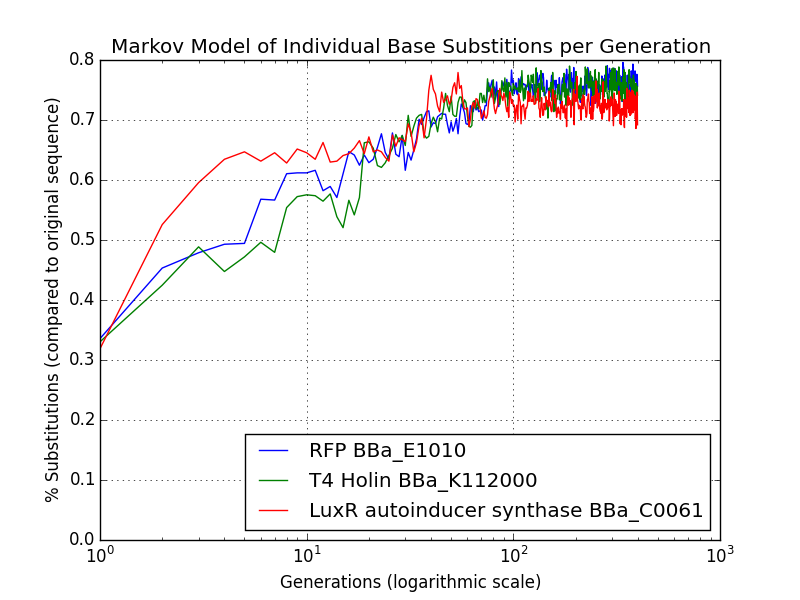
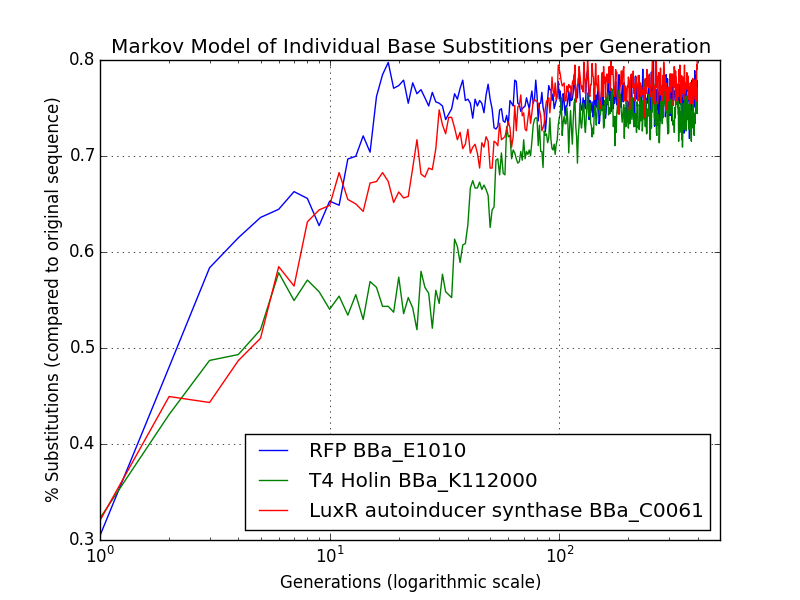
add conservative amino substitutions in markov

diff --git a/modeling/markov.py b/modeling/markov.py
@@ -109,12 +109,40 @@ def numDiffsCodons(seq1, seq2):
 
 sys.path.insert(0, '../lib')
 import mutation_optimizer
+
+ConservativeAminoMap = {
+    'A': ['S'],
+    'R': ['K'],
+    'N': ['Q','H'],
+    'D': ['E'],
+    'Q': ['N'],
+    'C': ['S'],
+    'E': ['D'],
+    'G': ['P'],
+    'H': ['N', 'Q'],
+    'I': ['L', 'V'],
+    'L': ['I', 'V'],
+    'K': ['R', 'Q'],
+    'M': ['L', 'I'],
+    'F': ['M', 'L', 'Y'],
+    'S': ['T', 'G'],
+    'T': ['S', 'V'],
+    'W': ['Y'],
+    'Y': ['W', 'F'],
+    'V': ['I', 'L']
+}
+
 def numDiffsAminos(seq1, seq2):
     s = 0
     seq1Amino = mutation_optimizer.dna_to_aa_translation(seq1)
     seq2Amino = mutation_optimizer.dna_to_aa_translation(seq2)
     for i in range(len(seq1Amino)):
-        if seq1Amino[i] != seq2Amino[i]: s = s + 1
+        aminoA = seq1Amino[i]
+        aminoB = seq2Amino[i]
+        if ((aminoA != aminoB) and
+            (aminoA in ConservativeAminoMap) and
+            (aminoB not in ConservativeAminoMap[aminoA])):
+            s = s + 1
     return s / len(seq1Amino)
 
 if __name__ == "__main__":
@@ -156,14 +184,15 @@ if __name__ == "__main__":
     for s in seqs:
         amins = list(map(lambda el: el['aminos'], s[:numGenerations]))
         plt.plot(amins)
+    plt.xlim([0, 10 ** 2.7])
+    plt.ylim([.4, .9])
     plt.legend(['RFP BBa_E1010', 'T4 Holin BBa_K112000',
                 'LuxR autoinducer synthase BBa_C0061'], loc='lower right')
     plt.title('Markov Model of Amino Substitions per Generation')
     plt.xlabel('Generations (logarithmic scale)')
     plt.grid(True)
     plt.ylabel('% Substitutions (compared to original sequence)')
-    plt.xscale('log')
-    plt.savefig('aminos')
+    plt.savefig('aminos-conservative-substitions')
     plt.clf()
     for s in seqs:
         cods = list(map(lambda el: el['codons'], s[:numGenerations]))
@@ -175,4 +204,6 @@ if __name__ == "__main__":
     plt.ylabel('% Substitutions (compared to original sequence)')
     plt.title('Markov Model of Individual Base Substitions per Generation')
     plt.xscale('log')
+    plt.xlim([0, 10 ** 2.7])
+    plt.ylim([.3, .8])
     plt.savefig('codons')
